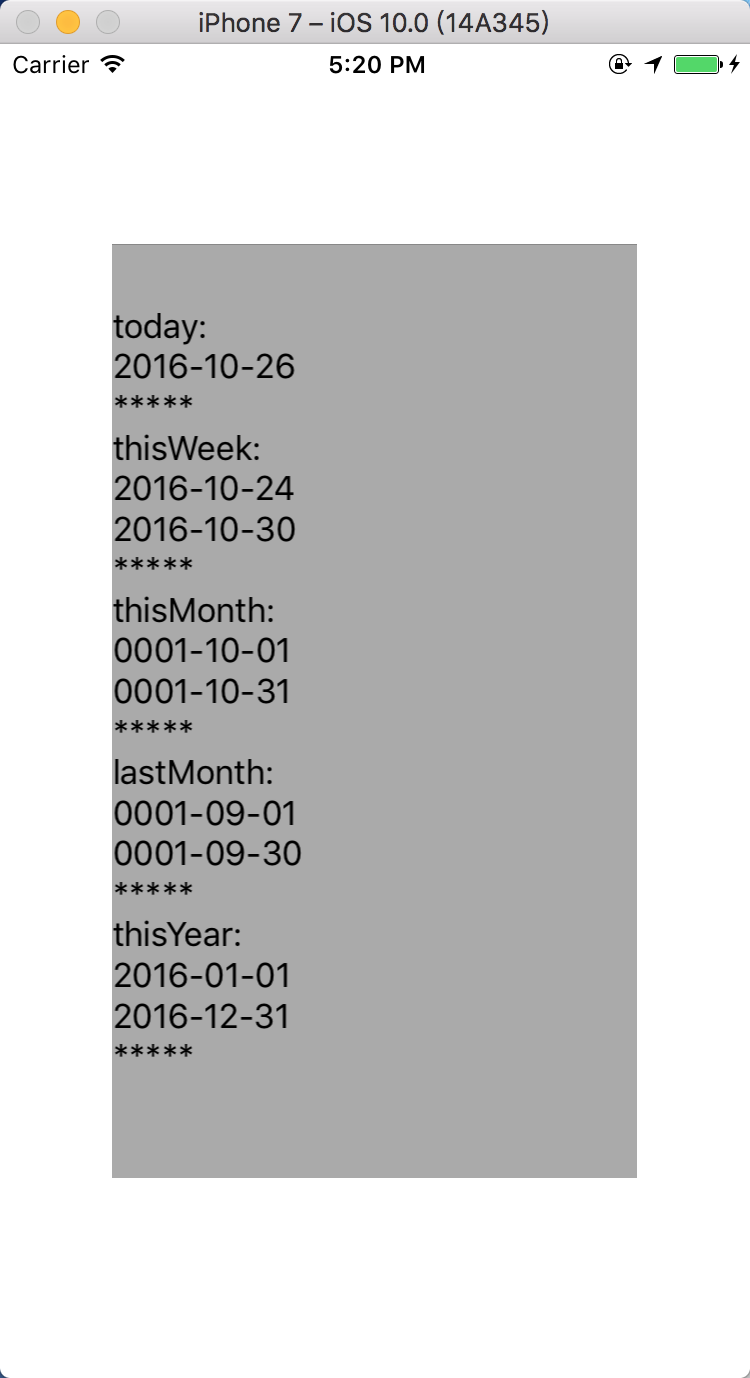
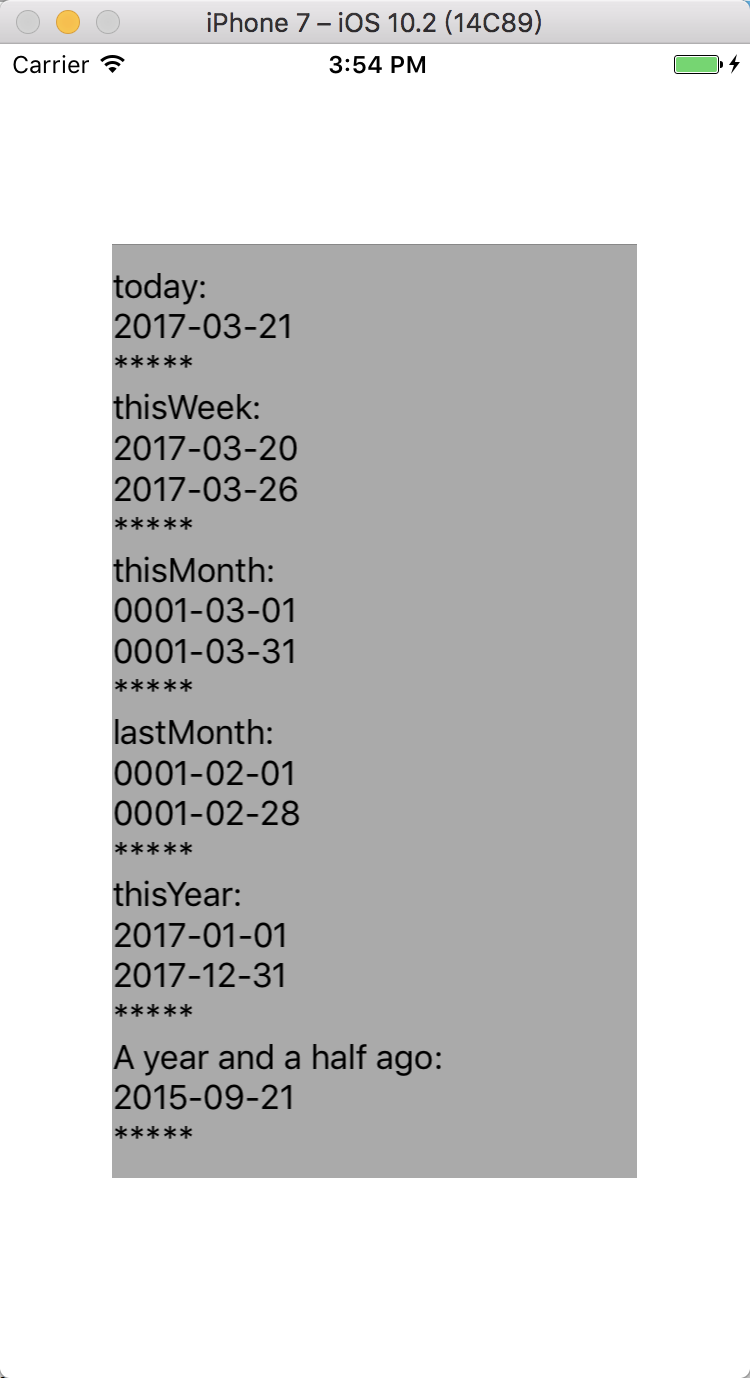
add date of a year and a half ago

diff --git a/MonthWeekDate/ViewController.m b/MonthWeekDate/ViewController.m
@@ -43,6 +43,7 @@
     NSDictionary *thisMonth = [day thisMonth];
     NSDictionary *lastMonth = [day lastMonth];
     NSDictionary *thisYear = [day thisYear];
+    NSString *lastTodayStr = [day dateStrLastYear];
     
 //    NSLog(@"\ntoday:%@\n*****",todayDic[@"start"]);
 //    NSLog(@"\nthisWeek:%@\n*****%@\n*****",thisWeek[@"start"],thisWeek[@"end"]);
@@ -54,8 +55,9 @@
     NSString *thisMonthStr = [NSString stringWithFormat:@"thisMonth:\n%@\n%@\n*****",thisMonth[@"start"],thisMonth[@"end"]];
     NSString *lastMonthStr = [NSString stringWithFormat:@"lastMonth:\n%@\n%@\n*****",lastMonth[@"start"],lastMonth[@"end"]];
     NSString *thisYearStr = [NSString stringWithFormat:@"thisYear:\n%@\n%@\n*****",thisYear[@"start"],thisYear[@"end"]];
+    NSString *todayLastYearStr = [NSString stringWithFormat:@"A year and a half ago:\n%@\n*****",lastTodayStr];
     
-    NSString *dateText = [NSString stringWithFormat:@"%@\n%@\n%@\n%@\n%@\n",todayStr,thisWeekStr,thisMonthStr,lastMonthStr,thisYearStr];
+    NSString *dateText = [NSString stringWithFormat:@"%@\n%@\n%@\n%@\n%@\n%@",todayStr,thisWeekStr,thisMonthStr,lastMonthStr,thisYearStr,todayLastYearStr];
     self.dateLabel.text = dateText;
 }
 

diff --git a/MonthWeekDate/YearWeekDate/YearMonthDay.m b/MonthWeekDate/YearWeekDate/YearMonthDay.m
@@ -210,8 +210,33 @@
     return endOfThisYear;
 }
 
-
 #pragma mark - 外部方法
+
+/**
+ 今天的上一年
+ 
+ @return 去年今天
+ */
+- (NSDate *)dateLastYear
+{
+    NSCalendar *cal = [NSCalendar currentCalendar];
+    NSDateComponents *components = [cal components:NSCalendarUnitYear |NSCalendarUnitMonth | NSCalendarUnitDay fromDate:[[NSDate alloc] init]];
+    
+    [components setYear:(components.year - 1)];
+    [components setMonth:(components.month - 6)];
+    
+    NSDate *endOfThisYear = [cal dateFromComponents:components];
+    
+    return endOfThisYear;
+}
+
+- (NSString *)dateStrLastYear
+{
+    NSDateFormatter *dateFormatter = [[NSDateFormatter alloc] init];
+    dateFormatter.dateFormat = @"yyyy-MM-dd";
+    NSString *lastDateStr = [dateFormatter stringFromDate:[self dateLastYear]];
+    return lastDateStr;
+}
 
 - (NSDictionary *)today {
     

diff --git a/MonthWeekDate/YearWeekDate/YearMonthDay.h b/MonthWeekDate/YearWeekDate/YearMonthDay.h
@@ -12,6 +12,12 @@
 
 
 /**
+ 上一年的今天
+ */
+- (NSDate *)dateLastYear;
+- (NSString *)dateStrLastYear;
+
+/**
  今天
  */
 - (NSDictionary *)today;
